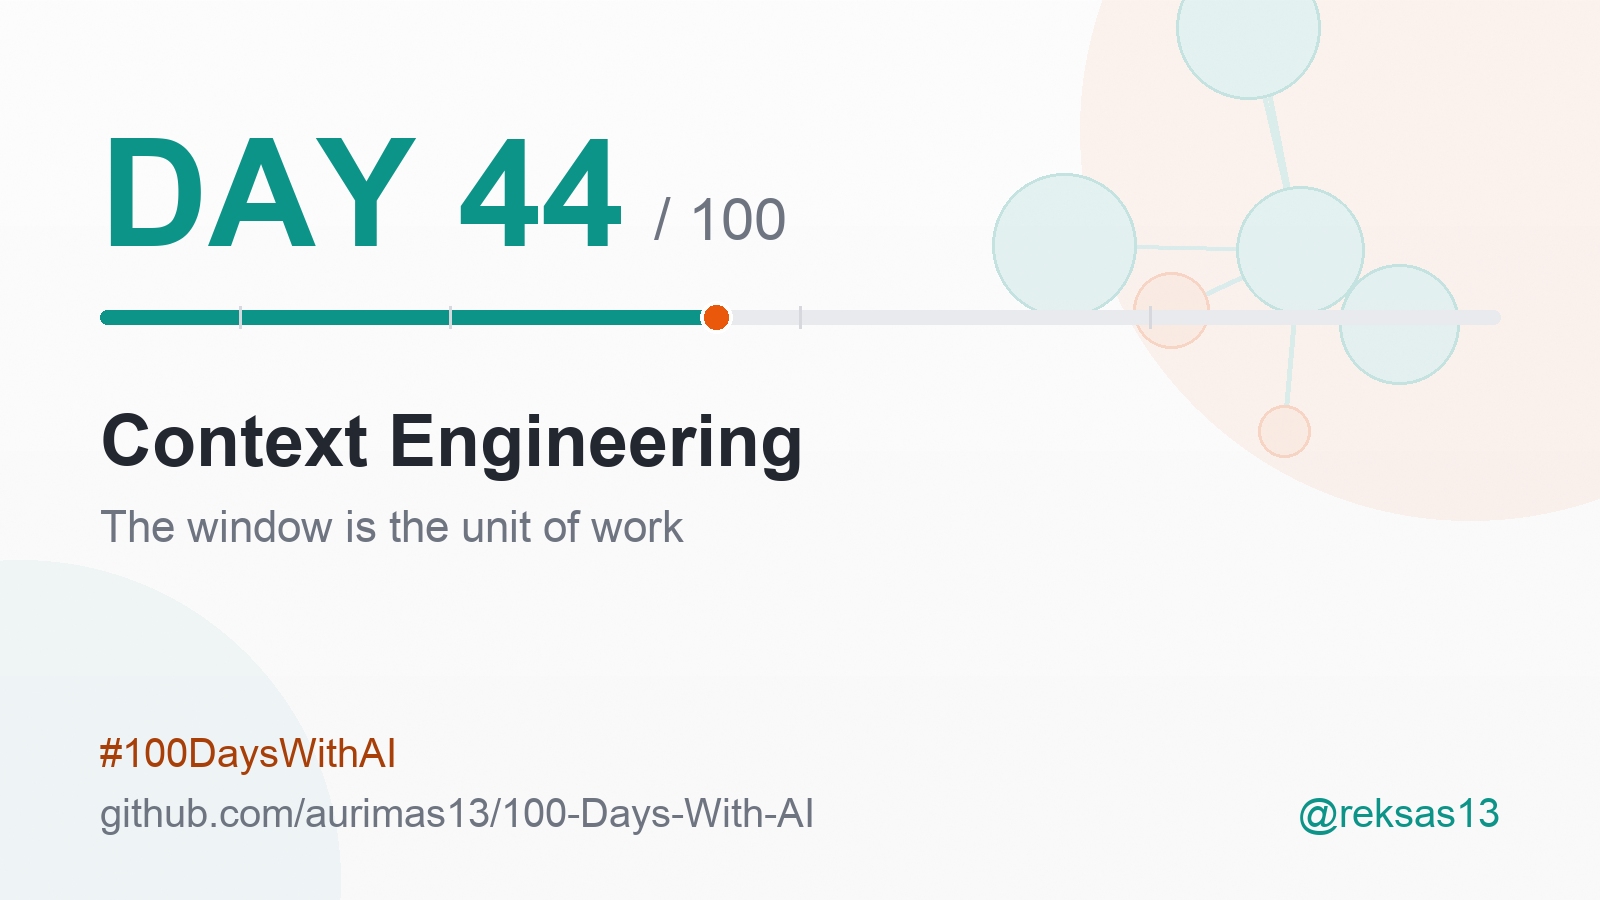
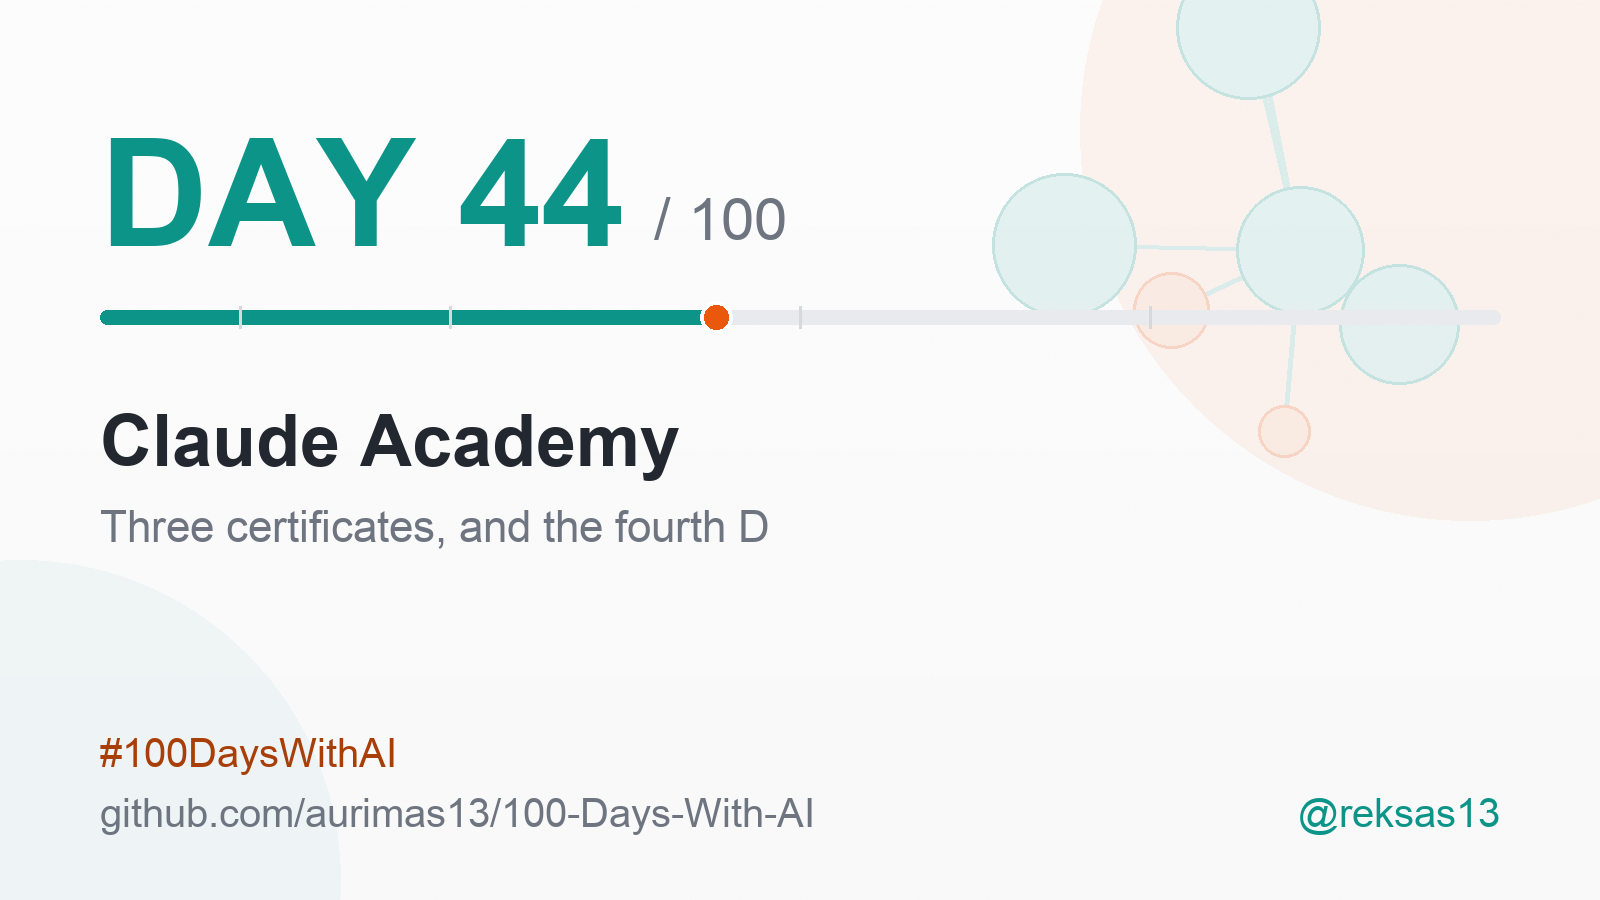
Day 44: Claude Academy (replaces Context Engineering)

Changed region(s): [[0.0938, 0.4356, 0.5, 0.5289], [0.0938, 0.56, 0.5, 0.6222]]

diff --git a/README.md b/README.md
@@ -139,7 +139,7 @@ for the shape of the progress table.
 | 41 | 2026-08-21 | "IBM Bob" - IBM | Medium | An enterprise coding agent read as a pair of pages, the marketing one and the documentation one: three purpose-built modes (agent, ask, plan), subagents spawned as parallel workstreams, a terminal companion, MCP for custom tools, usage analytics, and legacy modernisation in Java, RPG and COBOL as a headline use case - set against a landing page whose evidence is a single client migration reported as roughly 90% faster delivery and a claim that the product will not hallucinate on topics outside its knowledge, neither of which carries a method | [bob.ibm.com](https://bob.ibm.com/) |
 | 42 | 2026-08-22 | "Cline" - Cline (open source, Apache 2.0) | Medium | An open-source coding agent whose defining decision is a default rather than a capability: every file write and every command waits for explicit approval, and plan mode cannot write at all until you switch out of it, with the permission boundary expressed as a mode instead of a setting - available as an editor extension, a command-line tool and an embeddable SDK, running against any major model provider or your own endpoint, key or weights, and offering, a few paragraphs later in the same documentation, fully headless automation for continuous integration, which is where the promise of always being in control turns out to be a property of how you ran it | [cline.bot](https://cline.bot/) |
 | 43 | 2026-08-23 | "opencode" - anomalyco (open source, MIT) | Medium | A terminal-first coding agent whose two built-in agents are the point: build, the default full-access agent for development work, and plan, a read-only agent that denies file edits and asks permission before running shell commands, switched with a single keystroke, alongside a general subagent for wide searches, a terminal interface as the primary surface with a desktop application still in beta, and installation through every package manager a developer already has - read as the closing day of three consecutive days on coding agents, where an enterprise product, an editor extension and a terminal binary turn out to have independently converged on the same primitive of one mode that may write and one that may only read | [github.com/anomalyco](https://github.com/anomalyco/opencode) |
-| 44 | 2026-08-24 | "Context Engineering" - Andrej Karpathy (X), read via Willison and Schmid | Medium | The post that renamed the discipline in June 2025, read at second hand because the original is now behind a login wall: a prompt is a short task description, whereas context is the entire window an agent is given - instructions, user input, conversation history, long-term memory, retrieved documents, tool definitions and output format - so the work moves from choosing words to designing the system that assembles them, with Philipp Schmid's "right information and tools, in the right format, at the right time" as the definition that stuck and Simon Willison's observation that a term survives on its inferred rather than its intended meaning as the reason this one did, and with the widely repeated claim that agent failures are context failures rather than model failures recorded here as an untested hypothesis | [x.com/karpathy](https://x.com/karpathy/status/1937902205765607626) |
+| 44 | 2026-08-24 | "Claude Academy" - Anthropic | Medium | Anthropic's course platform, read first as a catalogue and then as three certificates finished in four days and added to LinkedIn - AI Fluency: Framework & Foundations, AI Fluency for Builders, and Introduction to Agent Skills - whose 4D framework of Delegation, Description, Discernment and Diligence names in its fourth competency the disclosure practice this project has carried on every post since Day 41, recorded here with its honest limit: a certificate attests that the lessons were completed and a final assessment passed, not that the holder is competent | [academy.claude.com](https://academy.claude.com/courses) |
 
 ---
 
@@ -1257,22 +1257,21 @@ source that argues the opposite.
 
 <sub>🤝 <b>AI collaboration:</b> researched, drafted and illustrated with Claude Code; reviewed, edited and approved by me before publishing - see <a href="#-ai-collaboration">AI Collaboration</a>.</sub>
 
-### Day 44 - "Context Engineering" (Andrej Karpathy, via Willison and Schmid)
+### Day 44 - "Claude Academy" (Anthropic)
 
 <img src="assets/cards/day-044.png" width="420" alt="Day 44 card">
 
-- **The rename, and what it moves.** The line everyone quotes is "+1 for 'context engineering' over 'prompt engineering'", and the reason given is that people hear "prompt" as a short task description. The reframing is not cosmetic: a prompt is a string you write, whereas context is the entire window a model sees on the next step. That turns a wording problem into a systems problem, which is a different job with different skills.
-- **What "context" actually contains.** Philipp Schmid's inventory is the useful part, because it is auditable: instructions, the user's input, conversation history, long-term memory, retrieved information, the available tools, and the specification of the output format. His definition - the right information and tools, in the right format, at the right time - is the phrasing that propagated, and it describes a dynamic system rather than a static text.
-- **Why this term stuck and the previous one did not.** Simon Willison's argument is the sharpest thing read today and it generalises past this case: "inferred definitions are the ones that stick". He had defended "prompt engineering", but the public inferred it as typing things into a chatbot, and that inference beat the intended meaning. He expects "context engineering" to fare better because what people infer from it is much closer to what practitioners mean. He also quotes Shopify's Tobi Lutke framing it as providing all the context needed for the task to be plausibly solvable.
-- **The claim this entry does NOT accept yet.** All three readings repeat some form of "agent failures are context failures, not model failures". It is plausible and it matches six weeks of reading, and none of these sources measures it - no failure taxonomy, no counts, no controlled comparison. It is recorded here as a working hypothesis, and it is worth noticing that the claim travelled a great deal faster than any evidence for it.
-- **What could not be verified, and why that is the day's other lesson.** The original post is unreachable without an account, and Willison's own quotation of it is explicitly truncated with "[..]" marks, so even the second-hand copy is partial. The date given in this project's backlog is 2025-06-25; Willison's post is dated 2025-06-27 and describes the tweet as recently amplified, which is consistent but is not independent confirmation. Everything quoted above was read; nothing was reconstructed from memory.
+- **What the platform is, read before anything was claimed about it.** Claude Academy is Anthropic's own course site, and its catalogue sorts into four tracks: Start Your Journey, Learn the Products, Become AI Fluent, and Build with the API. The scale varies enormously across those tracks - Introduction to Agent Skills is six lessons and about an hour, while Building with the Claude API is sixty-seven lessons, eight quizzes and roughly nine hours. Most courses end in a quiz and award a certificate of completion.
+- **The three finished this week, and they are mine rather than the site's claim.** AI Fluency: Framework & Foundations (fourteen lessons and a final assessment), AI Fluency for Builders, and Introduction to Agent Skills, all completed in the four days to this entry and added to the Licenses & Certifications section of my LinkedIn profile. At least four more are in progress, targeted for the coming weeks and for September at the latest.
+- **The 4D framework, and who built it.** The AI Fluency courses are organised around four competencies: Delegation, Description, Discernment, Diligence. Anthropic did not write them alone - the course was developed with Prof. Joseph Feller of University College Cork and Prof. Rick Dakan of Ringling College, and it runs a Description-Discernment loop as its central mechanic rather than treating prompting as a one-shot skill.
+- **Diligence is the one that landed, because this project was already doing it.** The first three competencies are close to what the names suggest: choose what to hand to the model, describe it well, and judge what comes back before using it. Diligence is the honesty competency - being transparent about how work was actually produced. That is precisely the disclosure line that has sat at the foot of every post in this project since Day 41, and it is the same practice the AI Collaboration section of this README sets out in full.
+- **What a certificate does not attest, said on the day of collecting three.** Each one records that the lessons were completed and the final assessment passed. None of them records competence, and treating them as though they did would fail the Discernment competency they teach. The evidence in this project is the forty-four days of entries, not the three badges.
 
-**Why it matters:** the vocabulary a field uses decides what its practitioners think they are doing. While the job was called prompt engineering, the work looked like phrasing and the market priced it accordingly. Called context engineering, the same work looks like assembling the right state for the next model call - retrieval, memory, tool surfaces, formatting, compaction - which is ordinary engineering and can be reasoned about, tested and hired for. The rename is the cheapest useful thing that happened to this discipline in 2025.
+**Why it matters:** a field acquires a discipline when its practices acquire names. Day 41 of this project adopted a disclosure note because it seemed like the fair thing to do; this week a structured curriculum, co-authored with two academics and ending in an assessment, presented the same behaviour as one of four core competencies of AI fluency. That upgrade matters more than it sounds. A personal scruple is negotiable and travels with the person who holds it. A named competency inside a curriculum can be taught, assessed, expected of a hire, and argued about on the merits. The formalisation of AI literacy into something with a syllabus is one of the quieter things happening in this field, and it is happening faster than the tooling debates that get the attention.
 
-**What I learned - and what I want to test.** The unplanned lesson was about sourcing rather than context: the post that renamed a discipline is now unreadable without an account, and the definitions that actually circulate were written by two other people within a week of it. When the origin is closed, the commentary becomes the record. What I want to test is the hypothesis I refused to accept above, with the cheapest experiment available: take an agent run that failed, print the full context window it was given rather than the prompt I wrote, and see whether the missing piece was information the model never received. If it usually was, the claim earns its status. If the model had everything and still failed, it does not.
+**What I learned - and what I want to test.** The lesson was not a technique. It was that I had been running three of these four competencies without the vocabulary to defend them, and the fourth one - the disclosure - I had adopted on instinct three days before a course told me it was standard. Naming a practice is what makes it portable to other people. What I want to test is the Description-Discernment loop as the courses actually frame it: for one week, when an output is wrong, log whether the fault was in my description or in my discernment of the result, rather than recording "the model got it wrong". If the tally lands mostly on my side of the loop, the framework is doing real work. If it does not, it is a vocabulary rather than a diagnostic, which would be worth knowing too.
 
 <sub>🤝 <b>AI collaboration:</b> researched, drafted and illustrated with Claude Code; reviewed, edited and approved by me before publishing - see <a href="#-ai-collaboration">AI Collaboration</a>.</sub>
-
 
 ---
 
